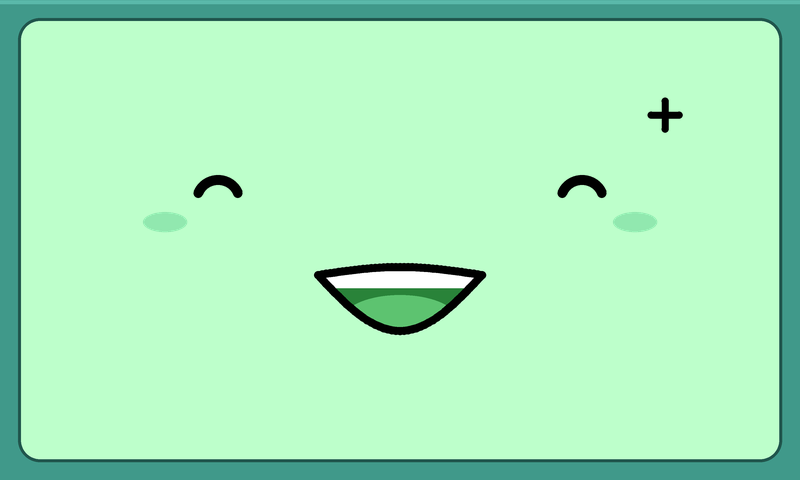
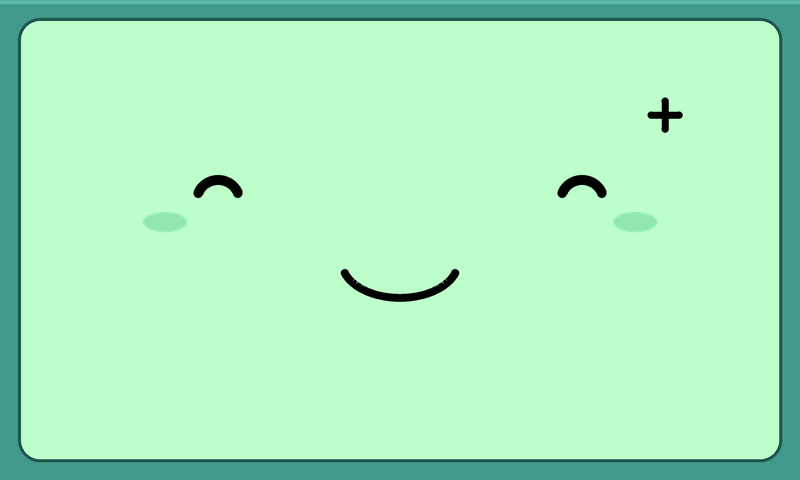
Improve voice-animation sync and add lip-sync frames to happy state
- Add speaking mouth cycle (01-03) to happy face animations
    - Wait for GUI initialization before playing startup greeting
    - Keep pygame.mixer initialized with a 512-sample low-latency buffer
    - Trigger speaking/happy states right on audio playback start and reset frame_index on state
    change

Changed region(s): [[0.375, 0.5312, 0.625, 0.7188]]

diff --git a/bmo-main.py b/bmo-main.py
@@ -171,6 +171,39 @@ class BMOState:
         self._subtitle_text: str = ""
         self._subtitle_role: str = "bmo"
         self._subtitle_time: float = 0.0
+        self._subtitle_duration: float = 0.0
+        # Real-time audio RMS mouth level (0..5 across 6 progressive mouth frames)
+        self._mouth_level: int = 0
+        self._is_speaking: bool = False
+        self._gui_ready = threading.Event()
+
+    def mark_gui_ready(self) -> None:
+        self._gui_ready.set()
+
+    def wait_gui_ready(self, timeout: float = 10.0) -> None:
+        self._gui_ready.wait(timeout=timeout)
+
+    # --- active TTS speaking flag ---
+    @property
+    def is_speaking(self) -> bool:
+        with self._lock:
+            return self._is_speaking
+
+    @is_speaking.setter
+    def is_speaking(self, value: bool) -> None:
+        with self._lock:
+            self._is_speaking = value
+
+    # --- mouth level for real-time lip-sync ---
+    @property
+    def mouth_level(self) -> int:
+        with self._lock:
+            return self._mouth_level
+
+    @mouth_level.setter
+    def mouth_level(self, value: int) -> None:
+        with self._lock:
+            self._mouth_level = value
 
     # --- current state ---
     @property
@@ -224,15 +257,21 @@ class BMOState:
         log.info("Cronologia conversazione azzerata.")
 
     # --- retro subtitle overlay ---
-    def set_subtitle(self, text: str, role: str = "bmo") -> None:
+    def set_subtitle(self, text: str, role: str = "bmo", duration: float = 0.0) -> None:
         with self._lock:
             self._subtitle_text = text.strip()
             self._subtitle_role = role
             self._subtitle_time = time.time()
+            self._subtitle_duration = duration
 
-    def get_subtitle(self) -> tuple[str, str, float]:
+    def get_subtitle(self) -> tuple[str, str, float, float]:
         with self._lock:
-            return self._subtitle_text, self._subtitle_role, self._subtitle_time
+            return (
+                self._subtitle_text,
+                self._subtitle_role,
+                self._subtitle_time,
+                self._subtitle_duration,
+            )
 
 
 # ===========================================================================
@@ -423,10 +462,8 @@ def speak_with_piper(
         return
 
     log.debug(f"BMO pronuncia: {text!r}")
-    state.set_subtitle(text, role="bmo")
     state.clear_stop_speaking()
     previous_state = state.state
-    state.state = face_state
 
     command = [
         config.PIPER_PATH,
@@ -438,7 +475,6 @@ def speak_with_piper(
         if pygame.mixer.get_init():
             pygame.mixer.music.stop()
             pygame.mixer.music.unload()
-            pygame.mixer.quit()
 
         if os.path.exists(config.OUTPUT_WAV):
             os.remove(config.OUTPUT_WAV)
@@ -456,17 +492,22 @@ def speak_with_piper(
             state.state = previous_state
             return
 
-        pygame.mixer.init(frequency=22050, size=-16, channels=1, buffer=4096)
+        if not pygame.mixer.get_init():
+            pygame.mixer.init(frequency=22050, size=-16, channels=1, buffer=512)
         pygame.mixer.music.set_volume(min(1.0, max(0.0, config.AUDIO_VOLUME)))
         pygame.mixer.music.load(config.OUTPUT_WAV)
         pygame.mixer.music.play()
+
+        state.is_speaking = True
+        state.state = face_state
+        state.set_subtitle(text, role="bmo")
 
         while pygame.mixer.music.get_busy():
             if state.should_stop_speaking():          # (#14)
                 pygame.mixer.music.stop()
                 log.info("TTS interrotto.")
                 break
-            pygame.time.Clock().tick(20)
+            pygame.time.Clock().tick(60)
 
     except FileNotFoundError:
         log.error(f"Piper non trovato: {config.PIPER_PATH!r}")
@@ -480,8 +521,9 @@ def speak_with_piper(
         log.error(f"Audio error: {exc}")
         state.state = ERROR
         time.sleep(0.8)
-
-    state.state = previous_state
+    finally:
+        state.is_speaking = False
+        state.state = previous_state
 
 
 # ===========================================================================
@@ -550,9 +592,6 @@ def process_question(
     # Express HAPPY when responding to personal/friendly greetings, otherwise SPEAKING
     response_face = HAPPY if intent == "local" else SPEAKING
     speak_with_piper(answer, state, config, face_state=response_face)
-
-    # Brief happy expression after answering before follow-up prompt
-    state.state = HAPPY
     speak_with_piper("Se hai altre domande chiamami pure", state, config, face_state=HAPPY)
 
 
@@ -702,8 +741,8 @@ def draw_subtitle_overlay(
     font_sub: pygame.font.Font,
     font_tag: pygame.font.Font,
 ) -> None:
-    """Draws a retro speech bubble overlay on the bottom of BMO's screen with typewriter effect."""
-    sub_text, sub_role, sub_time = state.get_subtitle()
+    """Draws a retro speech bubble overlay on the bottom of BMO's screen with audio-synced typewriter effect."""
+    sub_text, sub_role, sub_time, sub_duration = state.get_subtitle()
     if not sub_text:
         return
 
@@ -712,8 +751,12 @@ def draw_subtitle_overlay(
     if elapsed > 7.0 and state.state == IDLE and not state.is_busy:
         return
 
-    # Typewriter reveal speed (~32 chars/sec)
-    visible_chars = max(1, int(elapsed * 32))
+    # Sync typewriter speed to actual WAV duration when available
+    if sub_duration > 0.2:
+        progress = min(1.0, elapsed / (sub_duration * 0.92))
+        visible_chars = max(1, int(len(sub_text) * progress))
+    else:
+        visible_chars = max(1, int(elapsed * 32))
     typed_text = sub_text[:visible_chars]
 
     box_rect = pygame.Rect(24, 182, WINDOW_WIDTH - 48, 44)
@@ -774,16 +817,24 @@ def window_thread(
     mic_icons  = create_mic_surfaces()
     log.info("Caricamento animazioni...")
     animations = {s: load_folder_images(path) for s, path in config.FOLDERS.items()}
+    if not pygame.mixer.get_init():
+        try:
+            pygame.mixer.init(frequency=22050, size=-16, channels=1, buffer=512)
+        except Exception as exc:
+            log.warning(f"Mixer pre-init warning: {exc}")
 
     frame_index = 0
+    prev_state  = IDLE
     clock = pygame.time.Clock()
+    state.mark_gui_ready()
 
     while True:
         mouse_pos     = pygame.mouse.get_pos()
         mouse_pressed = pygame.mouse.get_pressed()[0]
 
-        cur_state = state.state
-        cur_busy  = state.is_busy
+        cur_state    = state.state
+        cur_busy     = state.is_busy
+        cur_speaking = state.is_speaking
 
         for event in pygame.event.get():
             if event.type == pygame.QUIT:
@@ -802,11 +853,9 @@ def window_thread(
                 if clear_btn_rect.collidepoint(event.pos):
                     state.clear_history()
                     state.set_subtitle("Memoria conversazione azzerata!", role="bmo")
-                    if not cur_busy:
-                        state.state = HAPPY
 
                 if mic_btn_rect.collidepoint(event.pos):
-                    if cur_state in (SPEAKING, HAPPY):
+                    if cur_speaking:
                         state.request_stop_speaking()
                     elif not cur_busy:
                         action_queue.put(("WAKE", None))
@@ -816,7 +865,7 @@ def window_thread(
                 ctrl_pressed = bool(mods & pygame.KMOD_CTRL)
 
                 if event.key == pygame.K_ESCAPE:
-                    if cur_state in (SPEAKING, HAPPY):
+                    if cur_speaking:
                         state.request_stop_speaking()
                 elif ctrl_pressed and event.key == pygame.K_l:
                     state.clear_history()
@@ -852,6 +901,9 @@ def window_thread(
                         cursor_pos += len(event.unicode)
 
         # ── Animation frame ────────────────────────────────────────────────
+        if cur_state != prev_state:
+            frame_index = 0
+            prev_state  = cur_state
         images      = animations.get(cur_state, animations[IDLE])
         frame_index = (frame_index + 1) % (len(images) * 10)
         cur_frame   = min(frame_index // 10, len(images) - 1)
@@ -921,7 +973,7 @@ def window_thread(
                          clear_btn_rect.centery - ct.get_height() // 2 - 1 + cy_off))
 
         # ── Mic / Stop button ──────────────────────────────────────────────
-        is_speaking_now = cur_state == SPEAKING or (cur_state == HAPPY and cur_busy)
+        is_speaking_now = cur_speaking
         if is_speaking_now:
             # (#14) Button becomes STOP
             m_bg     = BTN_MIC_STOP
@@ -1011,6 +1063,7 @@ def main() -> None:
         target=window_thread, args=(action_queue, state, config), daemon=True
     )
     ui_thread.start()
+    state.wait_gui_ready()
 
     # --- Voice listener thread ---
     v_thread = threading.Thread(
